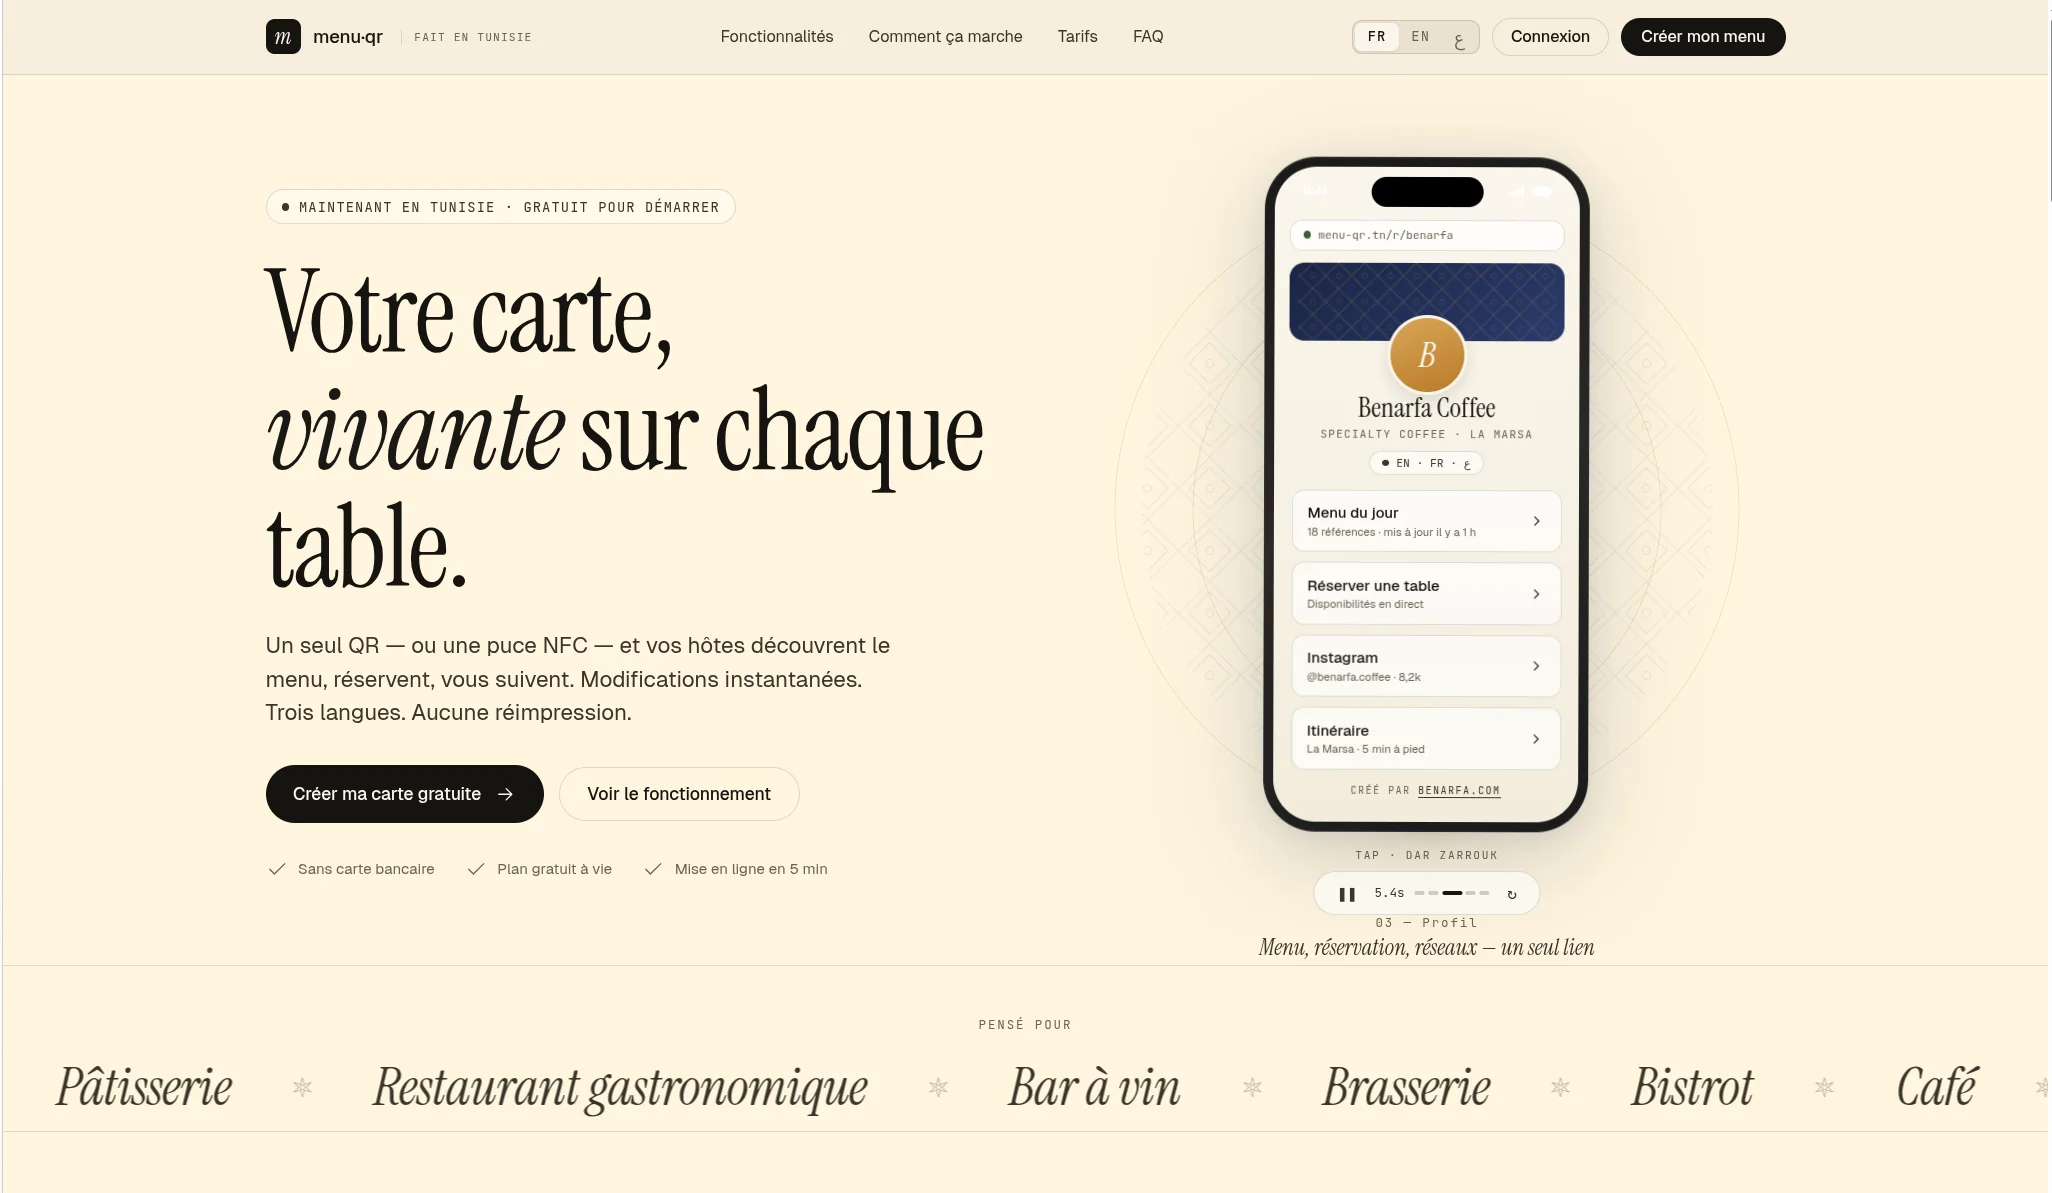
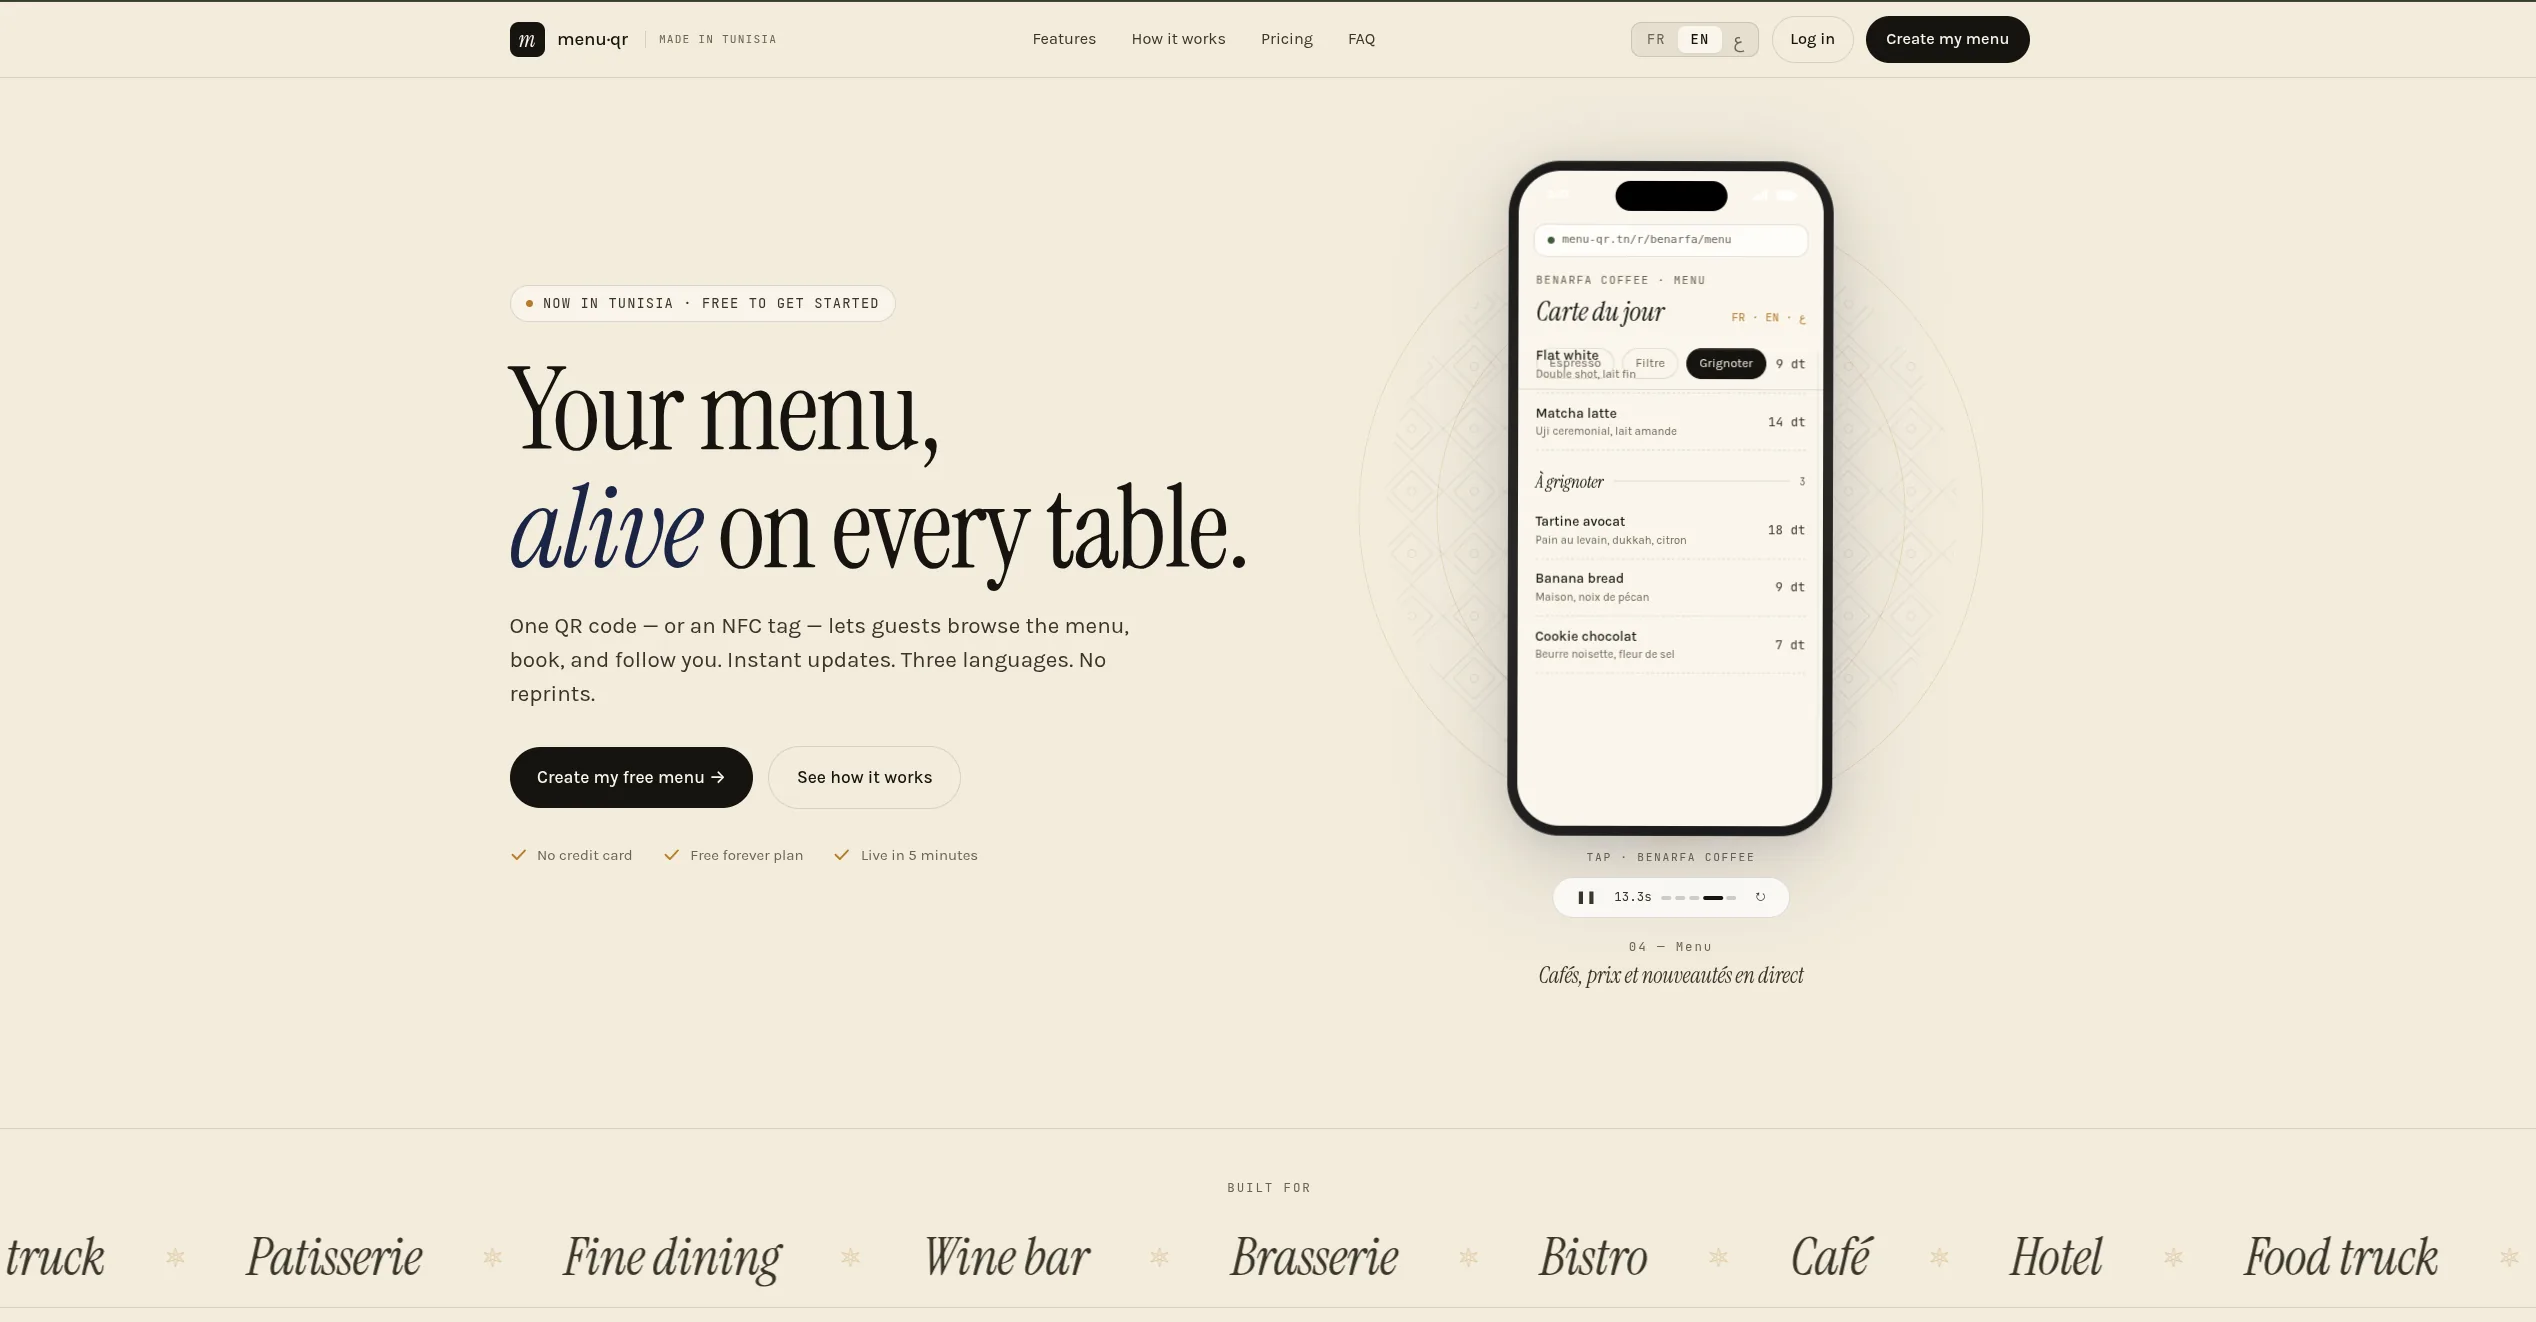
feat: add themed project thumbnail window animations and updated CSS visuals

diff --git a/app/globals.css b/app/globals.css
@@ -703,17 +703,234 @@ body {
 .project-thumb {
   position: relative;
   aspect-ratio: 4/3;
+  display: grid;
+  place-items: center;
   overflow: hidden;
-  border-radius: 8px;
-  background: var(--bg-elev);
-  border: 1px solid var(--line);
+  border-radius: 18px;
+  background: var(--thumb-base, var(--bg-elev));
+  border: 1px solid var(--thumb-line, var(--line));
+  box-shadow:
+    inset 0 1px 0 rgb(255 255 255 / 0.5),
+    0 24px 70px rgb(20 15 10 / 0.08);
+  isolation: isolate;
+}
+
+.project-thumb::before,
+.project-thumb::after,
+.project-thumb-art {
+  content: "";
+  position: absolute;
+  pointer-events: none;
+  z-index: 0;
+}
+
+.project-thumb::before {
+  inset: 0;
+  background: var(--thumb-surface);
+}
+
+.project-thumb::after {
+  inset: 0;
+  z-index: 3;
+  background:
+    linear-gradient(180deg, rgb(255 255 255 / 0.28), transparent 36%),
+    radial-gradient(circle at 50% 120%, rgb(0 0 0 / 0.14), transparent 54%);
+  opacity: 0.75;
+}
+
+.project-thumb-art {
+  inset: 0;
+  opacity: 1;
+}
+
+.project-thumb-window {
+  position: absolute;
+  top: var(--window-top, 22%);
+  left: var(--window-left, 9%);
+  z-index: 2;
+  width: var(--window-width, 82%);
+  height: var(--window-height, 52%);
+  overflow: hidden;
+  border: 1px solid color-mix(in srgb, var(--thumb-accent) 22%, white);
+  border-radius: 14px;
+  background: #fffaf2;
+  box-shadow:
+    0 28px 60px color-mix(in srgb, var(--thumb-shadow, #26180f) 18%, transparent),
+    0 8px 18px rgb(0 0 0 / 0.1),
+    inset 0 1px 0 rgb(255 255 255 / 0.86);
+  transform: rotate(var(--window-rotate, -1deg));
+  transition:
+    transform 1.2s cubic-bezier(0.2, 0.8, 0.2, 1),
+    box-shadow 1.2s cubic-bezier(0.2, 0.8, 0.2, 1);
+}
+
+.project-thumb-window::after {
+  content: "";
+  position: absolute;
+  inset: 0;
+  z-index: 3;
+  pointer-events: none;
+  background: linear-gradient(110deg, rgb(255 255 255 / 0.2), transparent 38%);
+}
+
+.project-thumb-chrome {
+  position: absolute;
+  inset: 0 0 auto;
+  z-index: 4;
+  display: flex;
+  gap: 6px;
+  align-items: center;
+  height: 24px;
+  border-bottom: 1px solid rgb(0 0 0 / 0.08);
+  background: color-mix(in srgb, var(--thumb-base) 72%, white);
+  padding-inline: 12px;
+}
+
+.project-thumb-chrome span {
+  width: 7px;
+  height: 7px;
+  border-radius: 999px;
+  background: color-mix(in srgb, var(--thumb-accent) 68%, white);
+  opacity: 0.52;
+}
+
+.project-thumb-dtalk {
+  --thumb-base: #fbefe2;
+  --thumb-line: #ead0ae;
+  --thumb-accent: #c15d2d;
+  --thumb-shadow: #7c351d;
+  --thumb-surface:
+    radial-gradient(circle at 20% 22%, rgb(193 93 45 / 0.18), transparent 24%),
+    radial-gradient(circle at 85% 18%, rgb(255 183 89 / 0.26), transparent 25%),
+    radial-gradient(circle at 62% 92%, rgb(193 93 45 / 0.14), transparent 34%),
+    linear-gradient(135deg, #fff8ed 0%, #f8e7d5 100%);
+  --window-rotate: -2.5deg;
+}
+
+.project-thumb-dtalk .project-thumb-art {
+  background:
+    radial-gradient(circle at 17% 26%, var(--thumb-accent) 0 3px, transparent 4px),
+    radial-gradient(circle at 34% 72%, var(--thumb-accent) 0 2px, transparent 3px),
+    radial-gradient(circle at 78% 28%, var(--thumb-accent) 0 3px, transparent 4px),
+    linear-gradient(26deg, transparent 0 29%, rgb(193 93 45 / 0.2) 29% 29.4%, transparent 29.4%),
+    linear-gradient(144deg, transparent 0 43%, rgb(193 93 45 / 0.16) 43% 43.4%, transparent 43.4%);
+}
+
+.project-thumb-menuqr {
+  --thumb-base: #edf7ee;
+  --thumb-line: #c4deca;
+  --thumb-accent: #198754;
+  --thumb-shadow: #174c33;
+  --thumb-surface:
+    radial-gradient(circle at 18% 82%, rgb(25 135 84 / 0.17), transparent 26%),
+    repeating-linear-gradient(90deg, rgb(25 135 84 / 0.08) 0 1px, transparent 1px 32px),
+    repeating-linear-gradient(0deg, rgb(25 135 84 / 0.08) 0 1px, transparent 1px 32px),
+    linear-gradient(135deg, #fbfff8 0%, #e4f2e6 100%);
+  --window-rotate: 1.5deg;
+  --window-top: 21%;
+  --window-left: 10%;
+  --window-width: 80%;
+  --window-height: 52%;
+}
+
+.project-thumb-menuqr .project-thumb-art::before,
+.project-thumb-menuqr .project-thumb-art::after {
+  content: "";
+  position: absolute;
+  width: 10px;
+  height: 10px;
+  background: var(--thumb-accent);
+  border-radius: 2px;
+  opacity: 0.16;
+}
+
+.project-thumb-menuqr .project-thumb-art::before {
+  top: 28px;
+  right: 36px;
+  box-shadow:
+    12px 0 0 var(--thumb-accent),
+    24px 0 0 var(--thumb-accent),
+    0 12px 0 var(--thumb-accent),
+    24px 12px 0 var(--thumb-accent),
+    0 24px 0 var(--thumb-accent),
+    12px 24px 0 var(--thumb-accent),
+    24px 24px 0 var(--thumb-accent),
+    -34px 12px 0 var(--thumb-accent),
+    -22px 24px 0 var(--thumb-accent),
+    -46px 36px 0 var(--thumb-accent);
+}
+
+.project-thumb-menuqr .project-thumb-art::after {
+  bottom: 36px;
+  left: 34px;
+  box-shadow:
+    12px 0 0 var(--thumb-accent),
+    36px 0 0 var(--thumb-accent),
+    0 12px 0 var(--thumb-accent),
+    24px 12px 0 var(--thumb-accent),
+    36px 24px 0 var(--thumb-accent),
+    12px 36px 0 var(--thumb-accent),
+    24px 36px 0 var(--thumb-accent);
+}
+
+.project-thumb-kindra {
+  --thumb-base: #f7edf0;
+  --thumb-line: #e8c8d1;
+  --thumb-accent: #a33f60;
+  --thumb-shadow: #5f2036;
+  --thumb-surface:
+    radial-gradient(ellipse at 80% 18%, rgb(163 63 96 / 0.18), transparent 28%),
+    radial-gradient(ellipse at 16% 80%, rgb(216 144 100 / 0.2), transparent 30%),
+    linear-gradient(120deg, rgb(163 63 96 / 0.08) 0 1px, transparent 1px 22px),
+    linear-gradient(135deg, #fff8f4 0%, #f3e3e8 100%);
+  --window-rotate: 2deg;
+}
+
+.project-thumb-kindra .project-thumb-art {
+  background:
+    linear-gradient(90deg, transparent 0 14%, rgb(163 63 96 / 0.14) 14% 14.4%, transparent 14.4% 86%, rgb(163 63 96 / 0.14) 86% 86.4%, transparent 86.4%),
+    repeating-linear-gradient(90deg, transparent 0 18px, rgb(163 63 96 / 0.12) 18px 19px, transparent 19px 36px);
+  mask-image: linear-gradient(to bottom, transparent, black 12%, black 78%, transparent);
+}
+
+.project-thumb-kindra .project-thumb-art::before {
+  content: "";
+  position: absolute;
+  top: 26px;
+  right: 36px;
+  width: 64px;
+  height: 84px;
+  border: 1px solid rgb(163 63 96 / 0.22);
+  border-radius: 32px 32px 10px 10px;
+  transform: rotate(8deg);
+}
+
+.project-thumb-kindra .project-thumb-art::after {
+  content: "";
+  position: absolute;
+  top: 38px;
+  right: 62px;
+  width: 10px;
+  height: 10px;
+  border: 1px solid rgb(163 63 96 / 0.28);
+  border-radius: 999px;
 }
 
 .project-thumb-image {
-  object-fit: contain;
-  background: #f7efde;
-  padding: 10px;
+  z-index: 1;
+  object-fit: cover;
+  object-position: top center;
+  padding-top: 24px;
+  background: white;
   transition: transform 1.2s cubic-bezier(0.2, 0.8, 0.2, 1);
+}
+
+.project-card:hover .project-thumb-window {
+  box-shadow:
+    0 34px 74px color-mix(in srgb, var(--thumb-shadow, #26180f) 22%, transparent),
+    0 12px 24px rgb(0 0 0 / 0.12),
+    inset 0 1px 0 rgb(255 255 255 / 0.88);
+  transform: translateY(-6px) rotate(var(--window-rotate, -1deg));
 }
 
 .mock {
@@ -734,10 +951,6 @@ body {
 
 .project-card:hover .mock {
   transform: scale(1.05);
-}
-
-.project-card:hover .project-thumb-image {
-  transform: scale(1.03);
 }
 
 .mock-1 {

diff --git a/app/[locale]/(home)/_components/projects-section.tsx b/app/[locale]/(home)/_components/projects-section.tsx
@@ -12,6 +12,7 @@ interface Project {
   mock: string;
   glyph: string;
   image?: string;
+  theme: string;
   href: string;
 }
 
@@ -26,6 +27,8 @@ const projects: Project[] = [
     stack: ["Next.js", "React", "TypeScript", "Konva.js", "Zustand", "TanStack Query"],
     mock: "mock-1",
     glyph: "D‑T",
+    image: "/d-talk.webp",
+    theme: "dtalk",
     href: "/projects/dtalk-ecosystem",
   },
   {
@@ -38,6 +41,8 @@ const projects: Project[] = [
     stack: ["Next.js", "Hono.js", "Cloudflare", "Python", "PostgreSQL", "AI OCR"],
     mock: "mock-2",
     glyph: "MQR",
+    image: "/menu-qr.webp",
+    theme: "menuqr",
     href: "/projects/menu-qr",
   },
   {
@@ -50,6 +55,8 @@ const projects: Project[] = [
     stack: ["Next.js", "PostgreSQL", "Tailwind", "Drizzle", "Stripe"],
     mock: "mock-3",
     glyph: "KIN",
+    image: "/kindra.webp",
+    theme: "kindra",
     href: "/projects/kindra",
   },
 ];
@@ -72,15 +79,26 @@ export function ProjectsSection() {
       <div className="project-grid">
         {projects.map((p) => (
           <a key={p.label} href={p.href} className="project-card reveal">
-            <div className="project-thumb">
+            <div
+              className={`project-thumb project-thumb-${p.theme}`}
+              aria-label={`${p.label} preview`}
+            >
+              <div aria-hidden="true" className="project-thumb-art" />
               {p.image ? (
-                <Image
-                  src={p.image}
-                  alt={`${p.label} preview`}
-                  fill
-                  sizes="(max-width: 900px) 100vw, 50vw"
-                  className="project-thumb-image"
-                />
+                <div className="project-thumb-window">
+                  <div aria-hidden="true" className="project-thumb-chrome">
+                    <span />
+                    <span />
+                    <span />
+                  </div>
+                  <Image
+                    src={p.image}
+                    alt={`${p.label} preview`}
+                    fill
+                    sizes="(max-width: 900px) 100vw, 50vw"
+                    className="project-thumb-image"
+                  />
+                </div>
               ) : (
                 <div className={`mock ${p.mock}`}>{p.glyph}</div>
               )}
